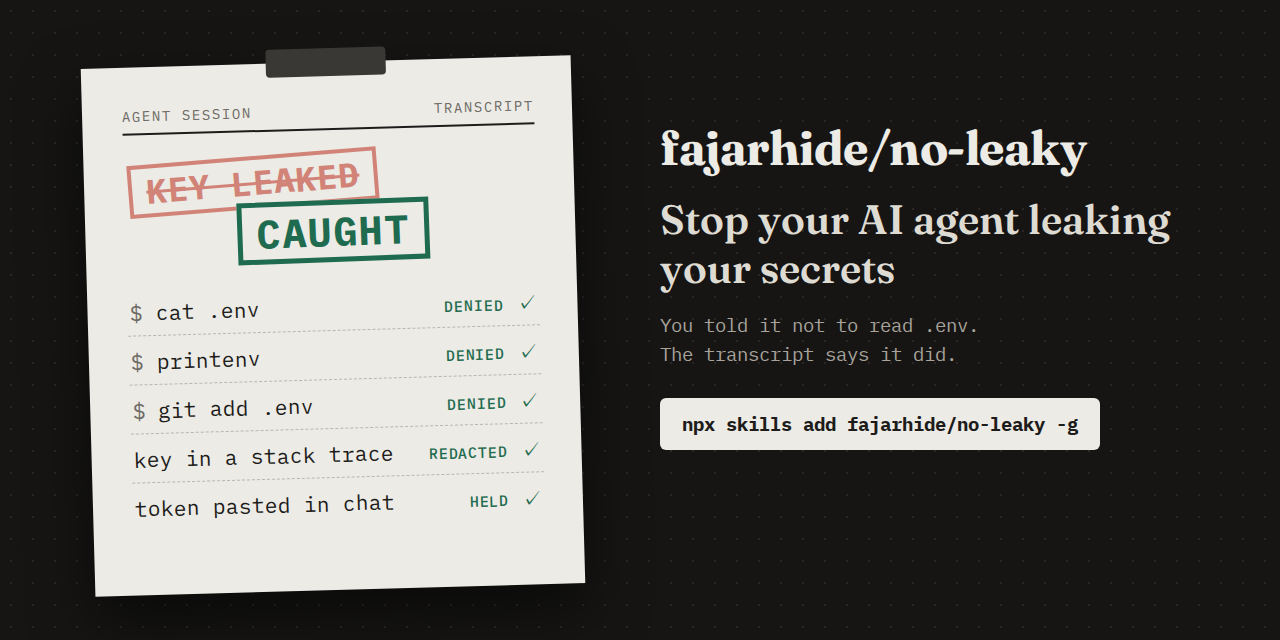
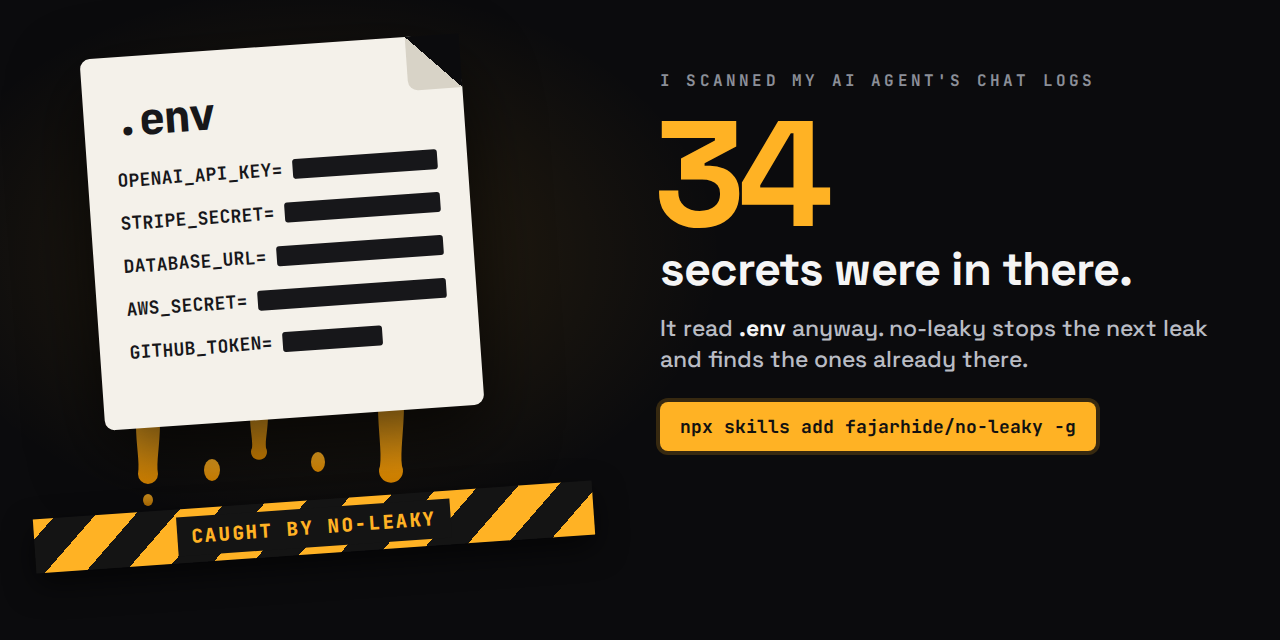
docs: poster with its own look and a hook from the scan
A dripping .env caught by caution tape, and the number the author's own
scan found, instead of the no-fake-done receipt layout.

diff --git a/README.md b/README.md
@@ -1,10 +1,10 @@
 # no-leaky
 
-<p align="center"><img src="assets/poster.png" width="840" alt="An agent session transcript stamped CAUGHT over a struck-out KEY LEAKED. cat .env, printenv and git add .env are denied, a key in a stack trace is redacted and a token pasted in chat is held. Beside it the line Stop your AI agent leaking your secrets, You told it not to read .env, the transcript says it did, and the command npx skills add fajarhide/no-leaky -g"></p>
+<p align="center"><img src="assets/poster.png" width="840" alt="A .env file whose values are blacked out, dripping amber onto caution tape that reads CAUGHT BY NO-LEAKY. Beside it: I scanned my AI agent's chat logs. 34 secrets were in there. It read .env anyway. no-leaky stops the next leak and finds the ones already there. npx skills add fajarhide/no-leaky -g"></p>
 
 Stop your AI agent leaking your secrets.
 
-You told it not to read `.env`. Then it ran `cat .env` to check one setting, `docker inspect` on a broken container, `ps aux` to find a process, or read a diff that held a key somebody committed. The value went into the transcript, and from there into backups, shared sessions and the provider's logs. Nothing broke, so nobody noticed. On one developer's machine, 362 Claude Code transcripts from six weeks held 35 distinct secrets across 28 projects.
+You told it not to read `.env`. Then it ran `cat .env` to check one setting, `docker inspect` on a broken container, `ps aux` to find a process, or read a diff that held a key somebody committed. The value went into the transcript, and from there into backups, shared sessions and the provider's logs. Nothing broke, so nobody noticed. When I scanned my own agent's chat logs, 34 secrets were in there.
 
 These two skills stop the next leak and find the ones already there. Values are never printed, not in a denial, a report or a log: every finding is a kind and a fingerprint, the first 8 hex of the value's SHA-256. You keep working the way you do now. They are for Claude Code, and the scan also reads Codex transcripts.
 
